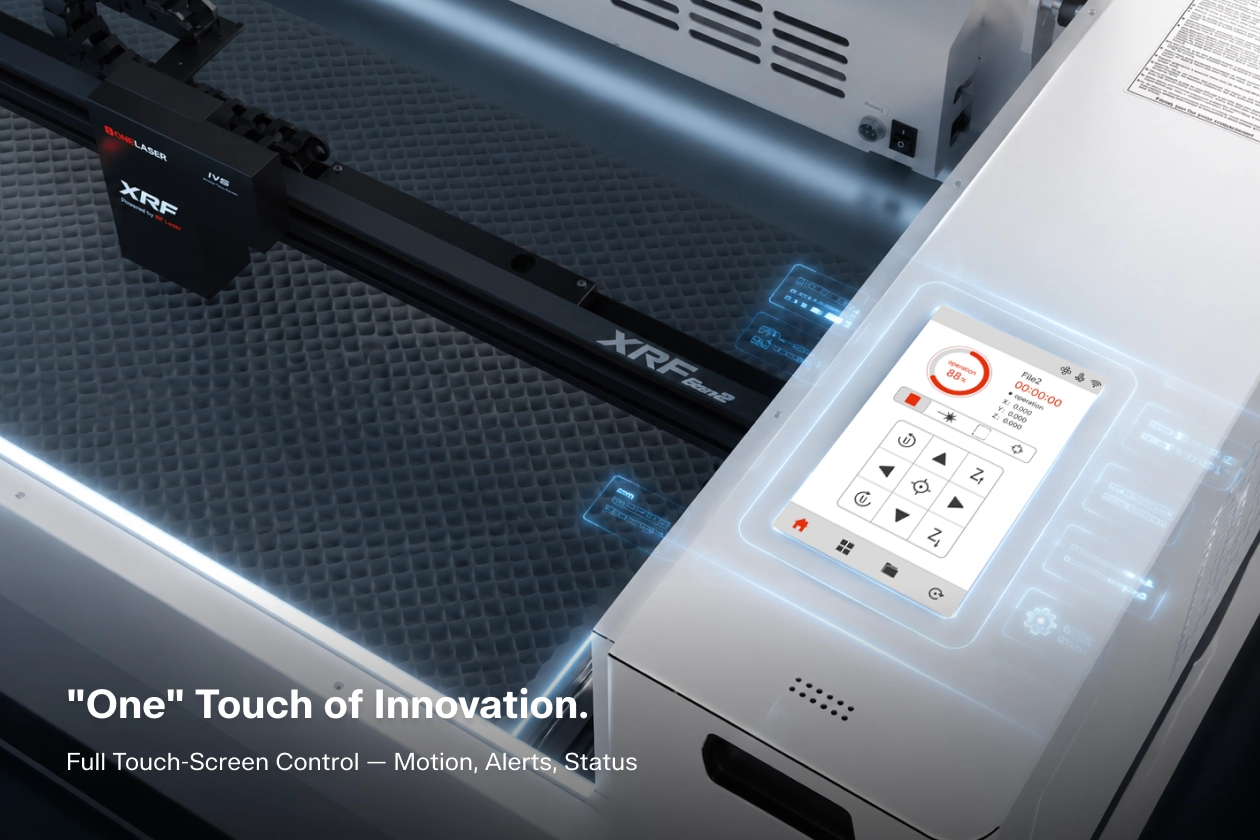
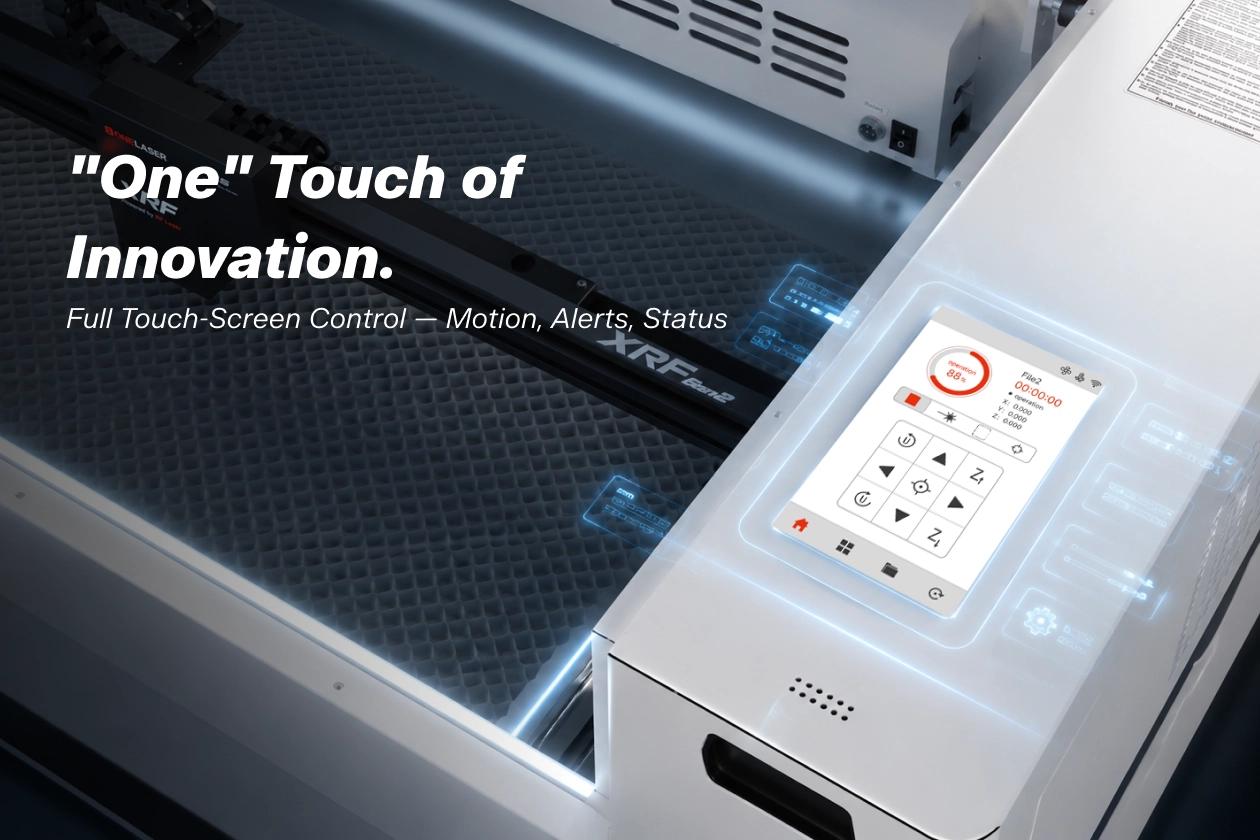
Refresh workflow support images

diff --git a/src/App.jsx b/src/App.jsx
@@ -353,8 +353,8 @@ const capabilityChapters = [
       },
     ],
     support: [
-      { title: "See the full bed", copy: "The 12MP lid camera supports full-frame positioning, contour capture and remote monitoring.", image: "smart-workflow-see-full-bed.webp" },
-      { title: "Control it from the machine", copy: "Adjust motion, job settings and machine status directly from the integrated touchscreen.", image: "smart-workflow-control-machine.webp" },
+      { title: "See the full bed", copy: "The 12MP lid camera supports full-frame positioning, contour capture and remote monitoring.", image: "smart-workflow-see-full-bed.webp?v=20260729" },
+      { title: "Control it from the machine", copy: "Adjust motion, job settings and machine status directly from the integrated touchscreen.", image: "smart-workflow-control-machine.webp?v=20260729" },
     ],
     proofs: [
       { value: "12MP", label: "Top-cover camera", icon: Camera },
